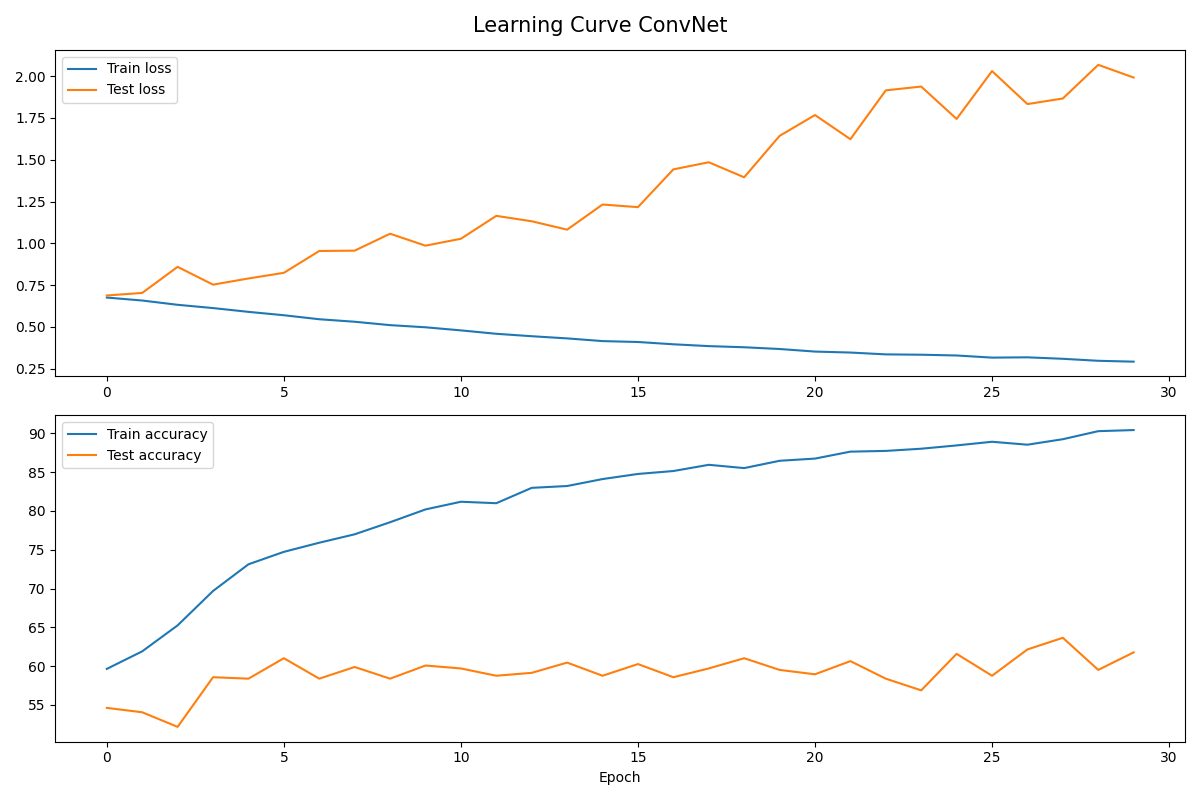
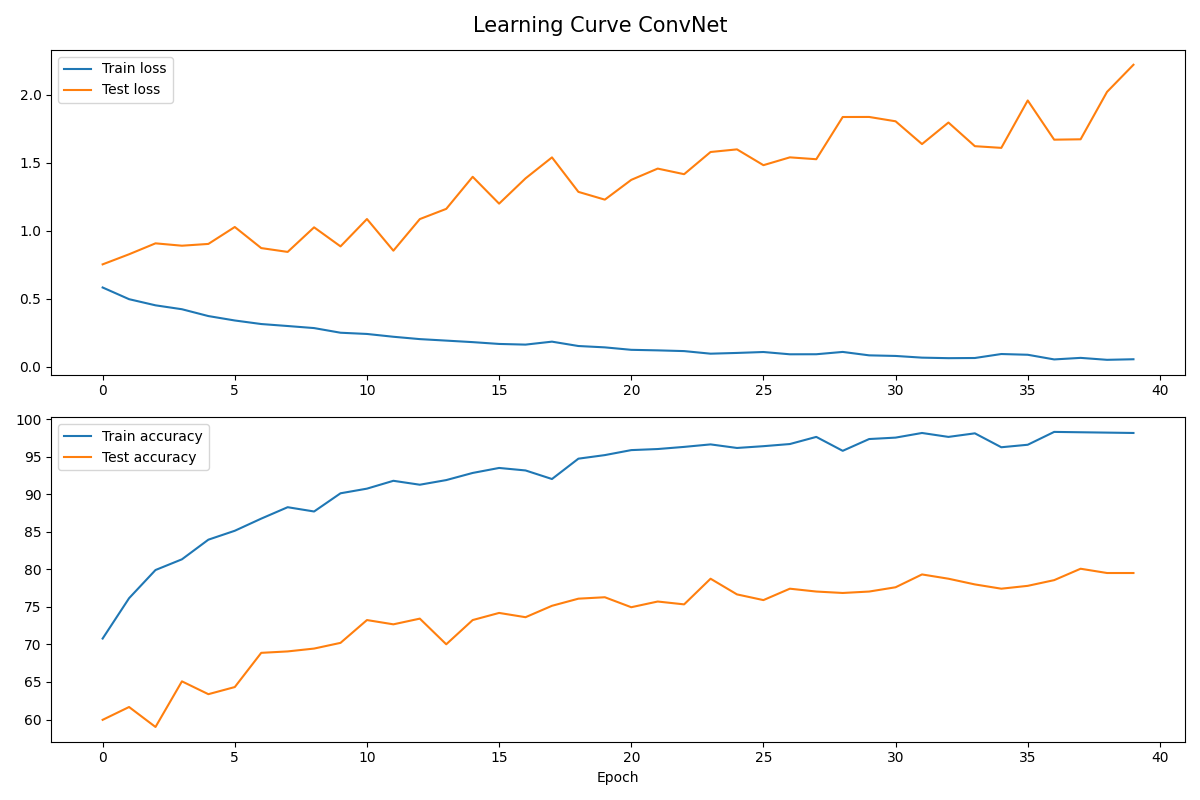
update

diff --git a/SW/size/test_accu.py b/SW/size/test_accu.py
@@ -14,7 +14,7 @@ def test_model():
     _, target_prices, _, features = get_data()
 
     # Data parameters
-    input_period = 42
+    input_period = 21
     input_period_reg = 10
     training_window = 10
 
@@ -56,14 +56,14 @@ def test_model():
     X_test = X_test.to(device)
     y_test = y_test.to(device)
 
-    eta = 5e-4
-    weight_decay = 1e-5
-    dropout = 0.1
+    eta = 1e-3
+    weight_decay = 1e-4
+    dropout = 0.15
     batch_size = 30
     gamma = 0.3
     print(f'parameters of ML model : \nlearning_rate = {eta}, weight_decay = {weight_decay}, dropout = {dropout}, batch_size = {batch_size}, gamma = {gamma}')
 
-    nb_epochs = 50
+    nb_epochs = 40
 
     verbose = 2
     
